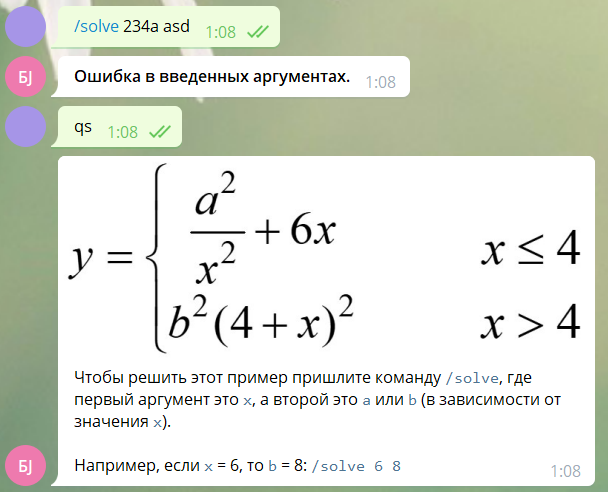
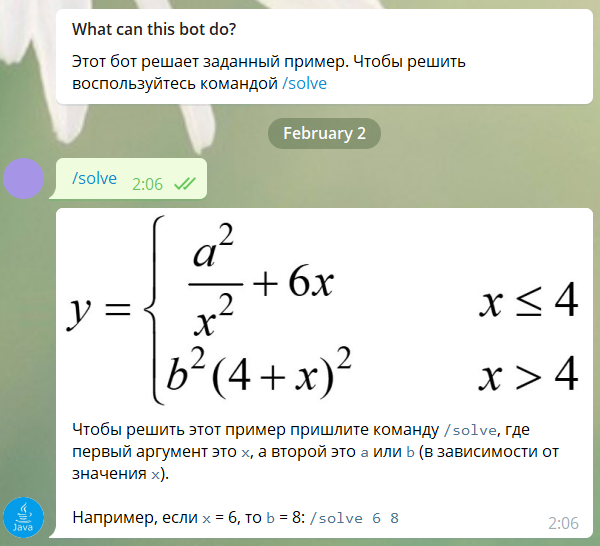
Update screenshots and README.md

diff --git a/README.md b/README.md
@@ -4,8 +4,7 @@
 
 ### Задание №2, 3 вариант
 
-![Example](example.png)
-
 ![Screenshot1](1.png)
 
 ![Screenshot2](2.png)
+![Screenshot3](3.png)
